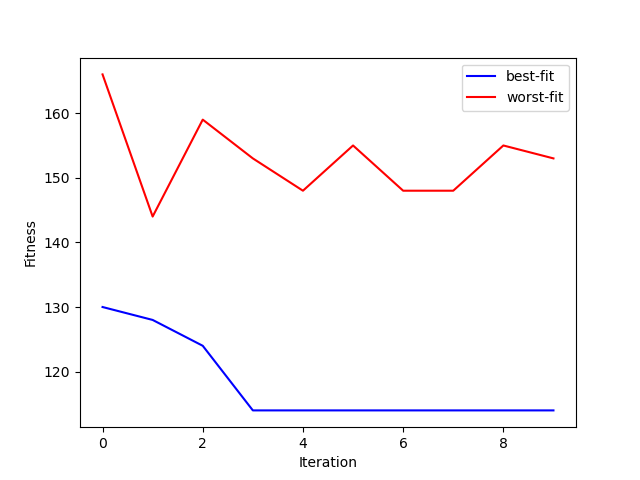
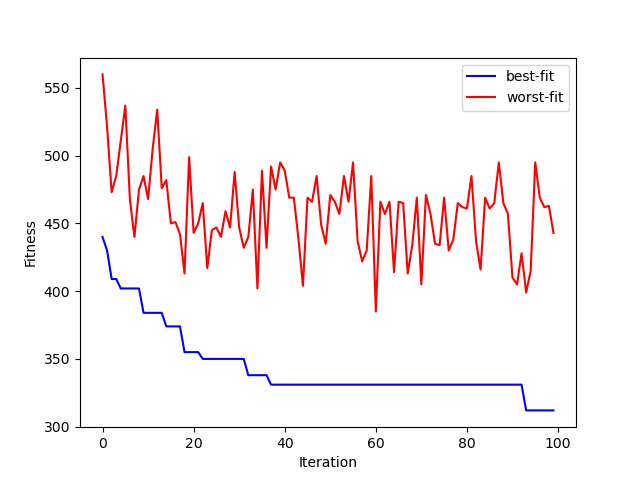
iteration counts and velocity functions updated again

diff --git a/ParticleSwarm.py b/ParticleSwarm.py
@@ -54,35 +54,47 @@ def apply_velocity(route, velocity):
 def generate_random_velocity(num_cities):
     return [tuple(random.sample(range(num_cities), 2))]
 
-# Update velocity based on the current position, pBest, and gBest
+import random
+
 def update_velocity(current_velocity, current_position, pBest_position, gBest_position, num_cities):
     new_velocity = []
-
-    # Approach pBest by making only one swap operation
-    for i in range(num_cities - 1, -1, -1):
-        if current_position[i] != pBest_position[i]:
-            j = current_position.index(pBest_position[i])
-            new_velocity.append((i, j))
-            break  # Stop after performing only one swap
-
-    # Approach gBest by making only one swap operation
-    for i in range(num_cities):
-        if current_position[i] != gBest_position[i]:
-            j = current_position.index(gBest_position[i])
-            new_velocity.append((i, j))
-            break  # Stop after performing only one swap
+    temp_position = current_position.copy()  # Create a copy to modify without affecting the original
 
     # Add random velocity to diversify the search space
-    num_random_swaps = random.randint(1, 3)  # Add 1 to 3 random swaps
+    num_random_swaps = random.randint(0, 3)  # Add 1 to 3 random swaps
     for _ in range(num_random_swaps):
         i = random.randint(0, num_cities - 2)  # Choose a random index (not the last)
         j = i + 1  # Swap with the next index
-        new_velocity.append((i, j))
+        r = (i, j)
+        new_velocity.append(r)
+        # Apply the random swap on the temp_position
+        temp_position[i], temp_position[j] = temp_position[j], temp_position[i]
+
+    # Approach pBest by making only one swap operation on temp_position
+    for i in range(num_cities - 1, -1, -1):
+        if temp_position[i] != pBest_position[i]:
+            j = temp_position.index(pBest_position[i])
+            g = (i, j)
+            new_velocity.append(g)
+            # Apply the pBest swap on temp_position
+            temp_position[i], temp_position[j] = temp_position[j], temp_position[i]
+            break  # Stop after performing only one swap
+
+    # Approach gBest by making only one swap operation on temp_position
+    for i in range(num_cities):
+        if temp_position[i] != gBest_position[i]:
+            j = temp_position.index(gBest_position[i])
+            p = (i, j)
+            new_velocity.append(p)
+            # Apply the gBest swap on temp_position
+            temp_position[i], temp_position[j] = temp_position[j], temp_position[i]
+            break  # Stop after performing only one swap
 
     return new_velocity
 
+
 # PSO (Particle Swarm Optimization) algorithm
-def main(cityMatrix, num_particles=8, num_iterations=10):
+def main(cityMatrix, num_particles=8, num_iterations=100):
     num_cities = len(cityMatrix)
 
     # Initialize particles and their velocities

diff --git a/GeneticAlgorithm.py b/GeneticAlgorithm.py
@@ -34,7 +34,7 @@ displayMatrix(cityMatrix)
 def main():
     gLength = len(cityMatrix)  # Number of cities
     popSize = 8  # Population size (must be a multiple of 4)
-    iterCount = 10  # Number of iterations
+    iterCount = 100  # Number of iterations
 
     bestFit = []  # Store best fitness values per iteration
     worstFit = []  # Store worst fitness values per iteration
